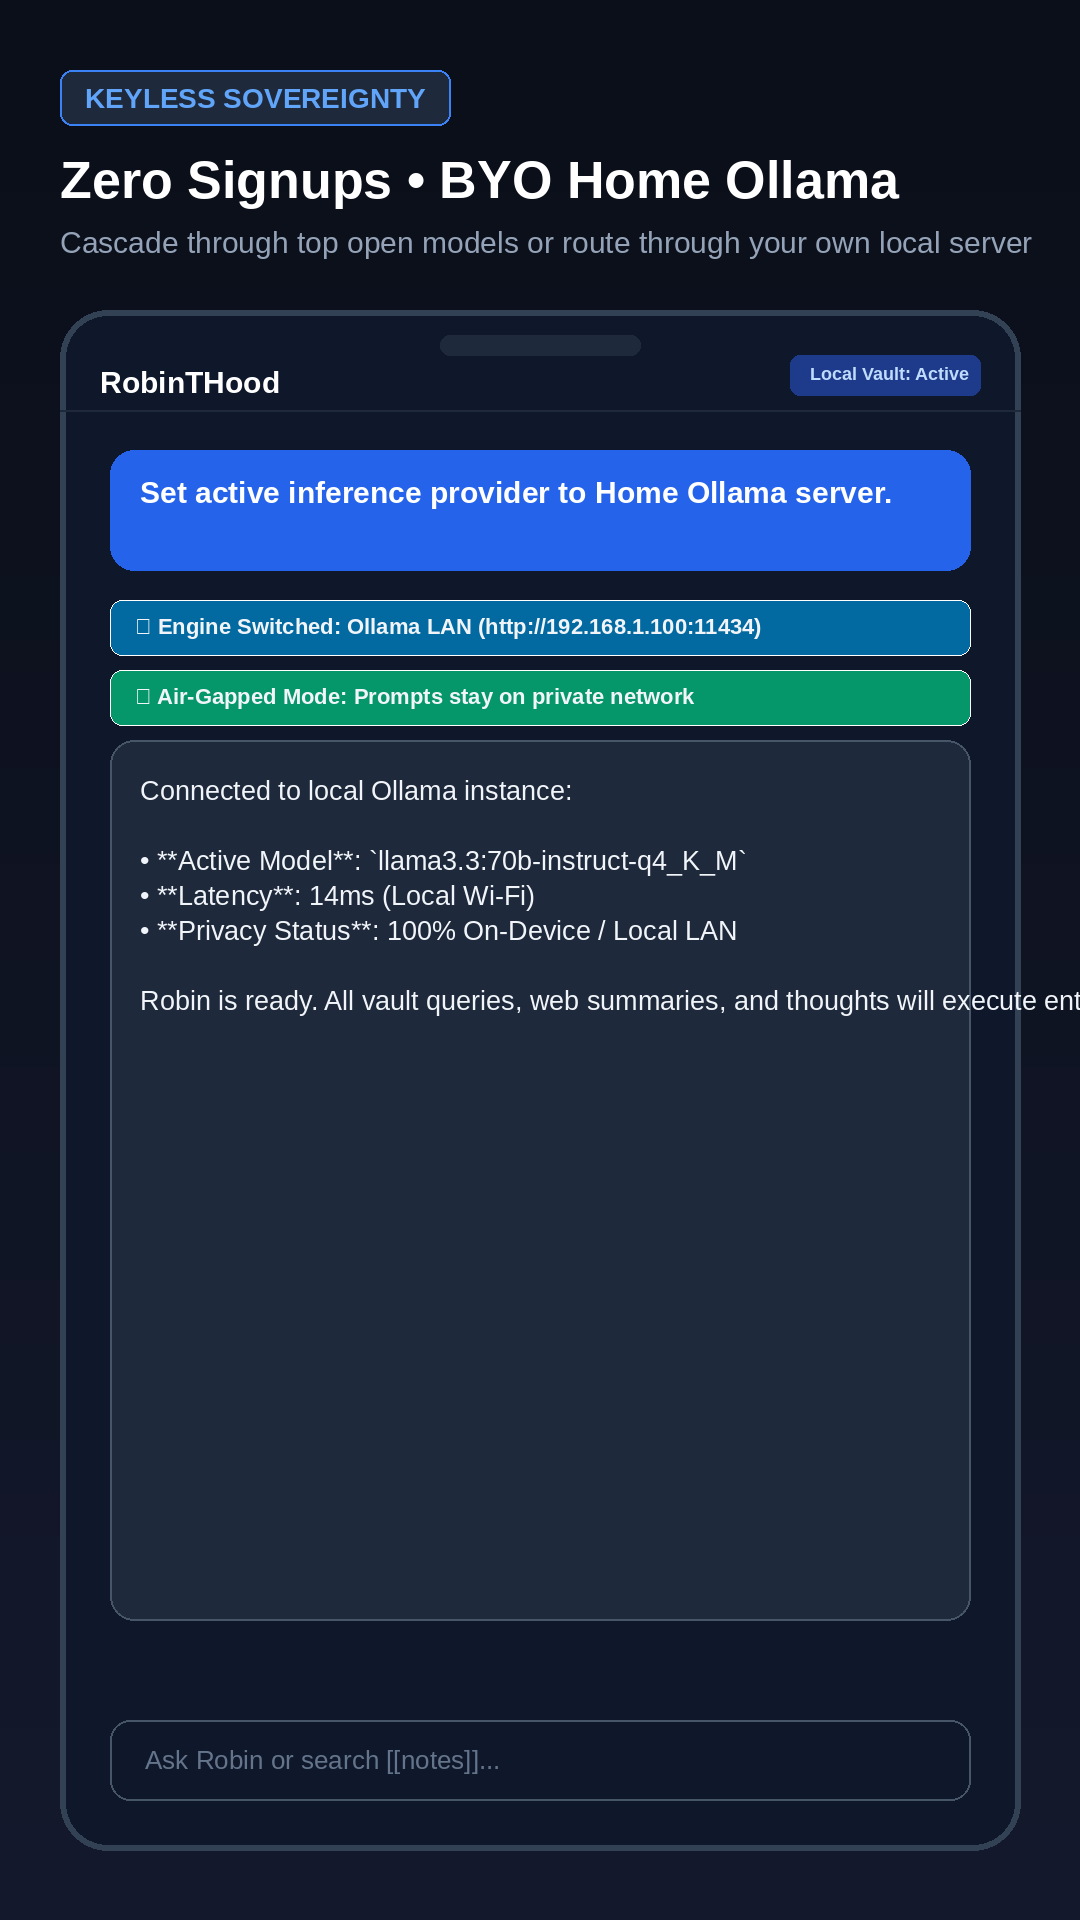
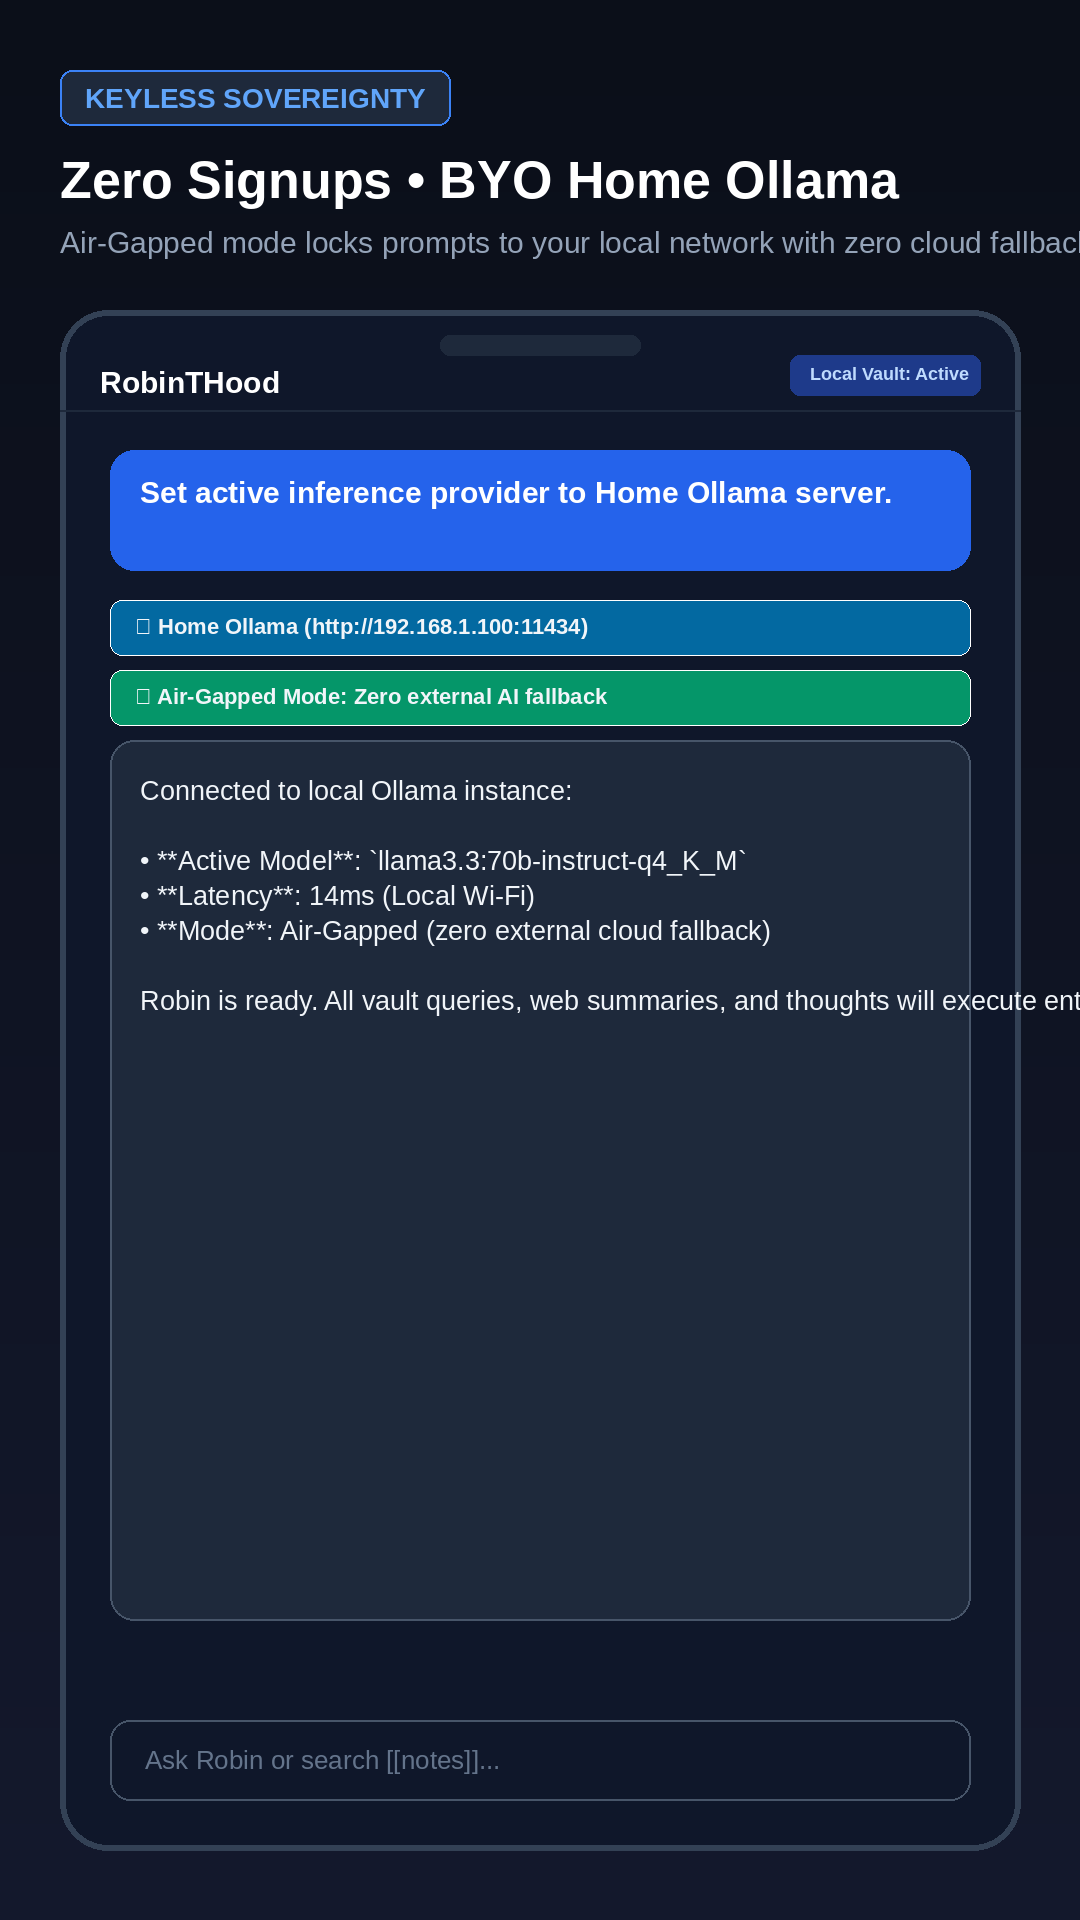
docs(store): disclose D1 report retention & deletion by email; require Air-Gapped mode for zero cloud fallback

diff --git a/android-app/store/generate_assets.py b/android-app/store/generate_assets.py
@@ -177,17 +177,17 @@ def generate_screenshots():
             "filename": "screenshot-4-sovereignty-engines.png",
             "banner_tag": "KEYLESS SOVEREIGNTY",
             "headline": "Zero Signups • BYO Home Ollama",
-            "subhead": "Cascade through top open models or route through your own local server",
+            "subhead": "Air-Gapped mode locks prompts to your local network with zero cloud fallback",
             "user_prompt": "Set active inference provider to Home Ollama server.",
             "action_badges": [
-                ("⚙ Engine Switched: Ollama LAN (http://192.168.1.100:11434)", (3, 105, 161)),
-                ("🔒 Air-Gapped Mode: Prompts stay on private network", (5, 150, 105))
+                ("⚙ Home Ollama (http://192.168.1.100:11434)", (3, 105, 161)),
+                ("🔒 Air-Gapped Mode: Zero external AI fallback", (5, 150, 105))
             ],
             "agent_response": (
                 "Connected to local Ollama instance:\n\n"
                 "• **Active Model**: `llama3.3:70b-instruct-q4_K_M`\n"
                 "• **Latency**: 14ms (Local Wi-Fi)\n"
-                "• **Privacy Status**: 100% On-Device / Local LAN\n\n"
+                "• **Mode**: Air-Gapped (zero external cloud fallback)\n\n"
                 "Robin is ready. All vault queries, web summaries, and thoughts will execute entirely through your home server without touching cloud AI providers."
             )
         }

diff --git a/android-app/store/listing.md b/android-app/store/listing.md
@@ -31,9 +31,10 @@ Unlike passive chat apps that lock your data in proprietary clouds, RobinTHood w
 • **Multi-Language Support**: Complete fluid responses in English, Spanish, French, German, Portuguese, Japanese, Chinese, and Hindi.
 
 ### Privacy & Data Transparency
-• **Local Storage**: Your files and vaults remain stored locally on your device in the folders you authorize. RobinTHood does not run a cloud server that stores your notes or chats.
+• **Local Storage**: Your files and vaults remain stored locally on your device in the folders you authorize. Chats and notes are never stored on developer cloud servers. The only data stored by the developer is user-submitted issue reports sent via the in-app Report button (question, answer, chosen reason, optional note, and random install ID stored in Cloudflare D1 for developer review).
 • **Prompt & Context Transmission**: When you chat or ask Robin to analyze a note, the prompt and relevant retrieved text excerpts are transmitted to your selected AI provider (e.g. OVHcloud, Kilo) to generate the answer.
-• **Air-Gapped LAN Mode**: For complete privacy with zero remote AI transmission, configure Home Ollama to run inference entirely on your local home server.
+• **Air-Gapped Mode**: For zero remote AI transmission, enable Air-Gapped mode with Home Ollama so queries execute entirely on your private local network with all cloud fallbacks strictly blocked.
+• **Data Deletion**: Users may request deletion of submitted problem reports at any time by contacting aroundrobin@protonmail.com with the approximate date and wording.
 • **Transparent Ads**: The free app is supported by standard non-intrusive banner ads.
 
 ---
@@ -88,14 +89,14 @@ Unlike passive chat apps that lock your data in proprietary clouds, RobinTHood w
 
 **Data Safety Form Summary**:
 - **Data Encrypted in Transit**: Yes (HTTPS for all remote models and search workers; optional home Ollama handles its own transport).
-- **Deletion Request**: No central account database exists; reports are retained ephemerally. Answer "No".
+- **Deletion Request**: Yes. Users can request deletion of submitted problem reports by emailing aroundrobin@protonmail.com with the approximate date and wording (stored in Cloudflare D1 for quality reviews; no accounts or chat logs exist).
 
 | Data type | Collected / shared | Purpose | Notes |
 |---|---|---|---|
 | Messages → Other in-app messages | Shared | App functionality | Prompts and retrieved note context are sent ephemerally to the selected AI service (OVHcloud, Kilo, or custom key). Not stored by developer. |
 | Photos and videos → Photos | Shared | App functionality | Only photos the user attaches, sent to the AI service for vision processing. |
 | Files and docs | Shared | App functionality | Only note text/files the user authorizes Robin to read as query context, sent ephemerally to the AI service. |
-| App activity → User reports | Collected | Developer communications | When user taps Report: reply, question, reason, version, and random install ID. |
+| App activity → User reports | Collected | Developer communications | When user taps Report: reply, question, reason, version, and random install ID stored in Cloudflare D1; deletable upon request. |
 | Device or other IDs | Collected and shared | Advertising | Standard Google Mobile Ads SDK (advertising ID). |
 | Location → Approximate | Collected and shared | Advertising | Google Mobile Ads SDK (inferred from IP). |
 | App info and performance → Diagnostics | Collected and shared | Advertising, analytics | Google Mobile Ads SDK crash and diagnostic reports. |
